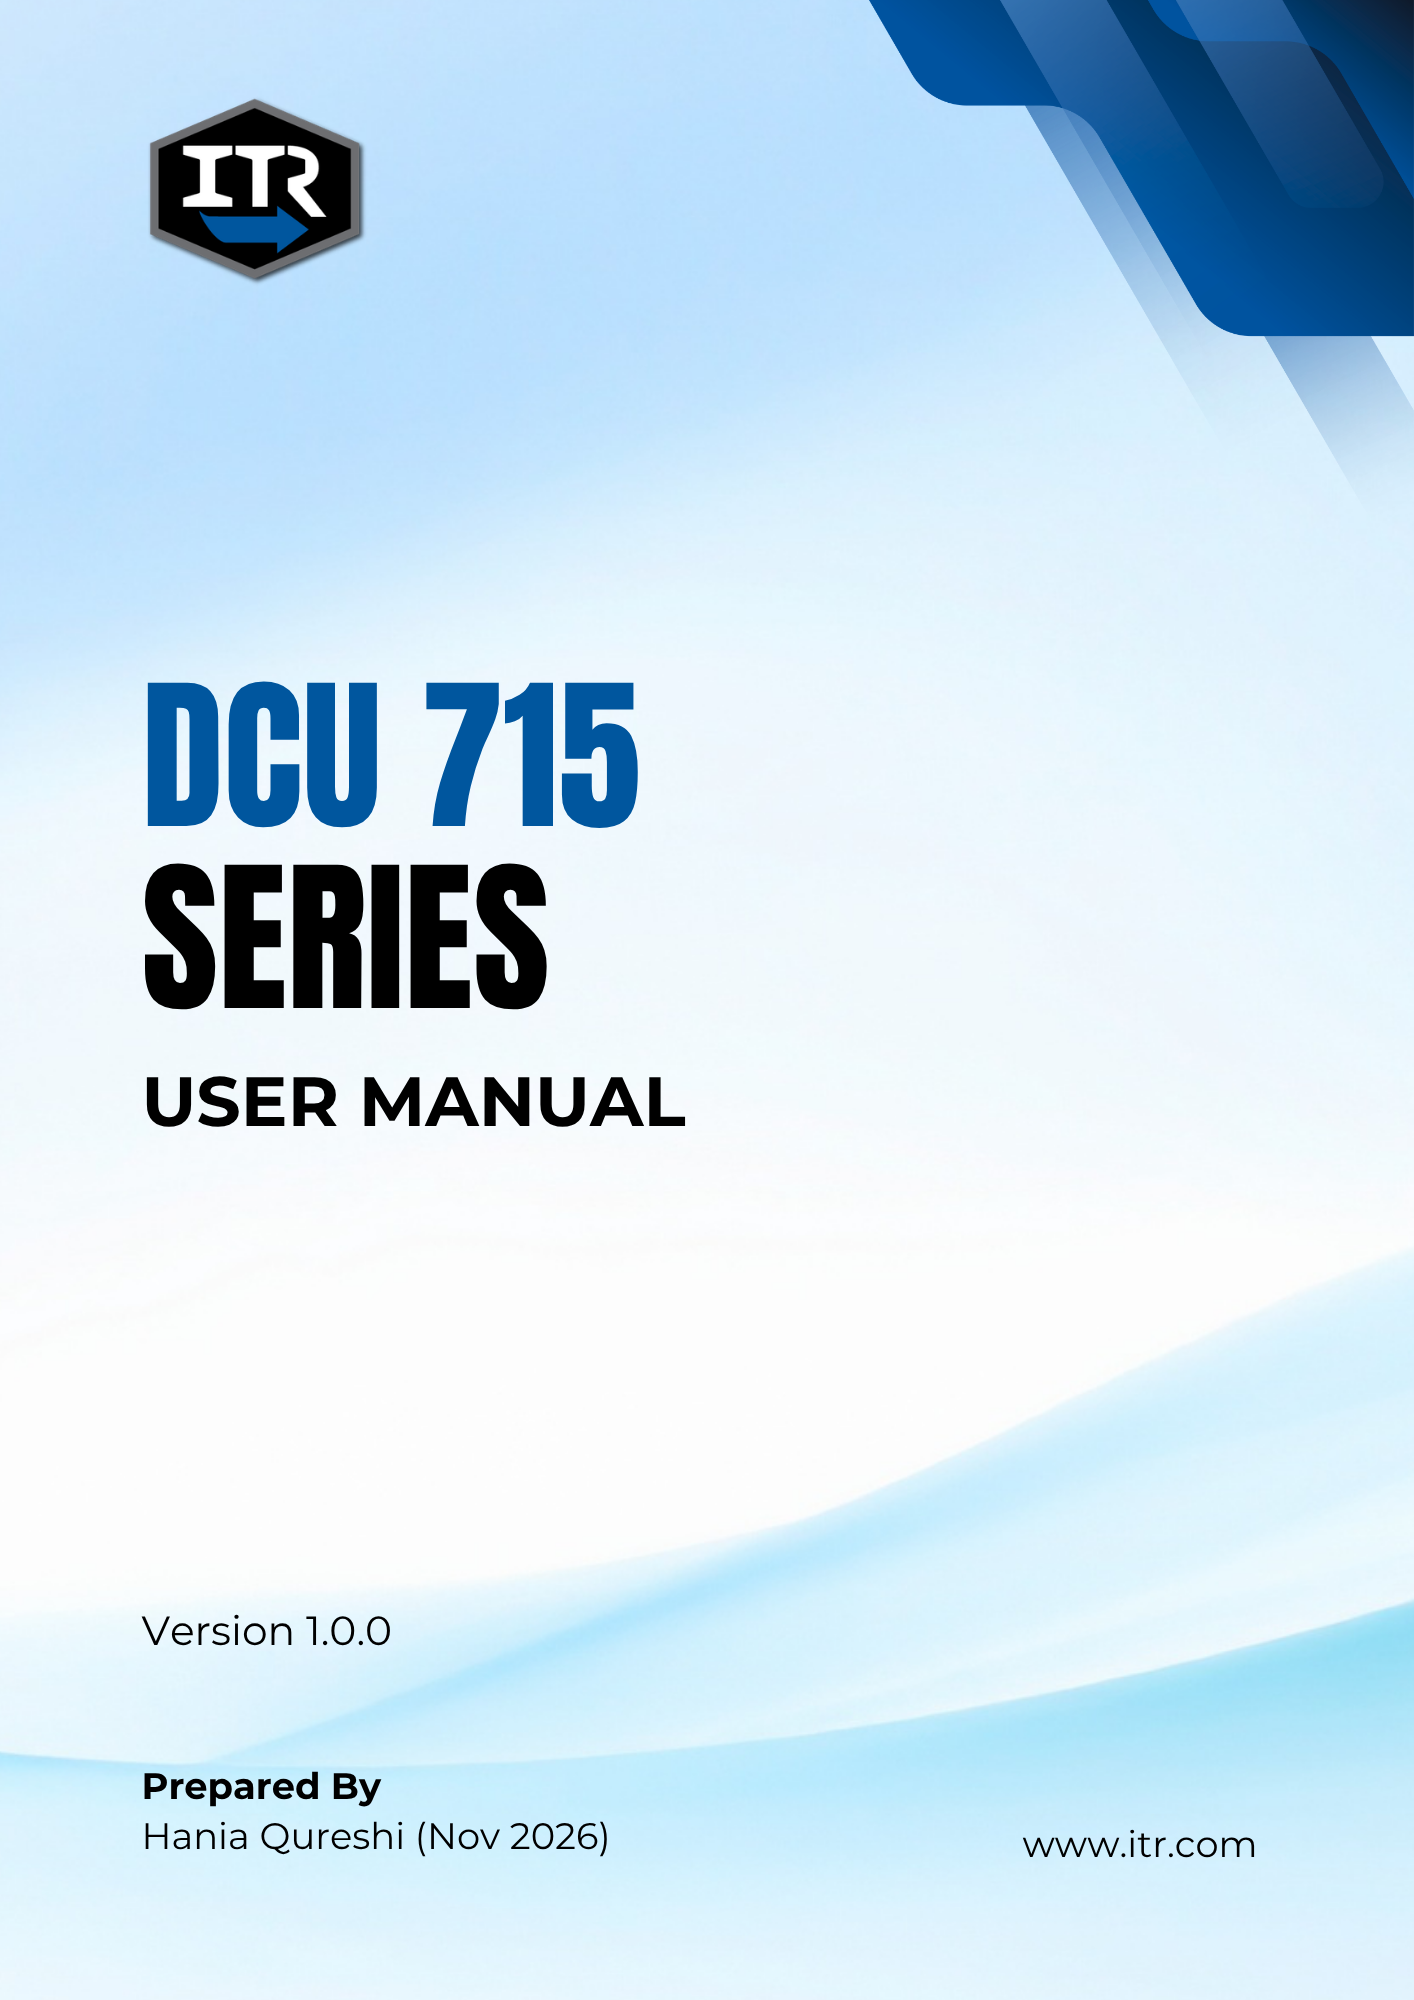
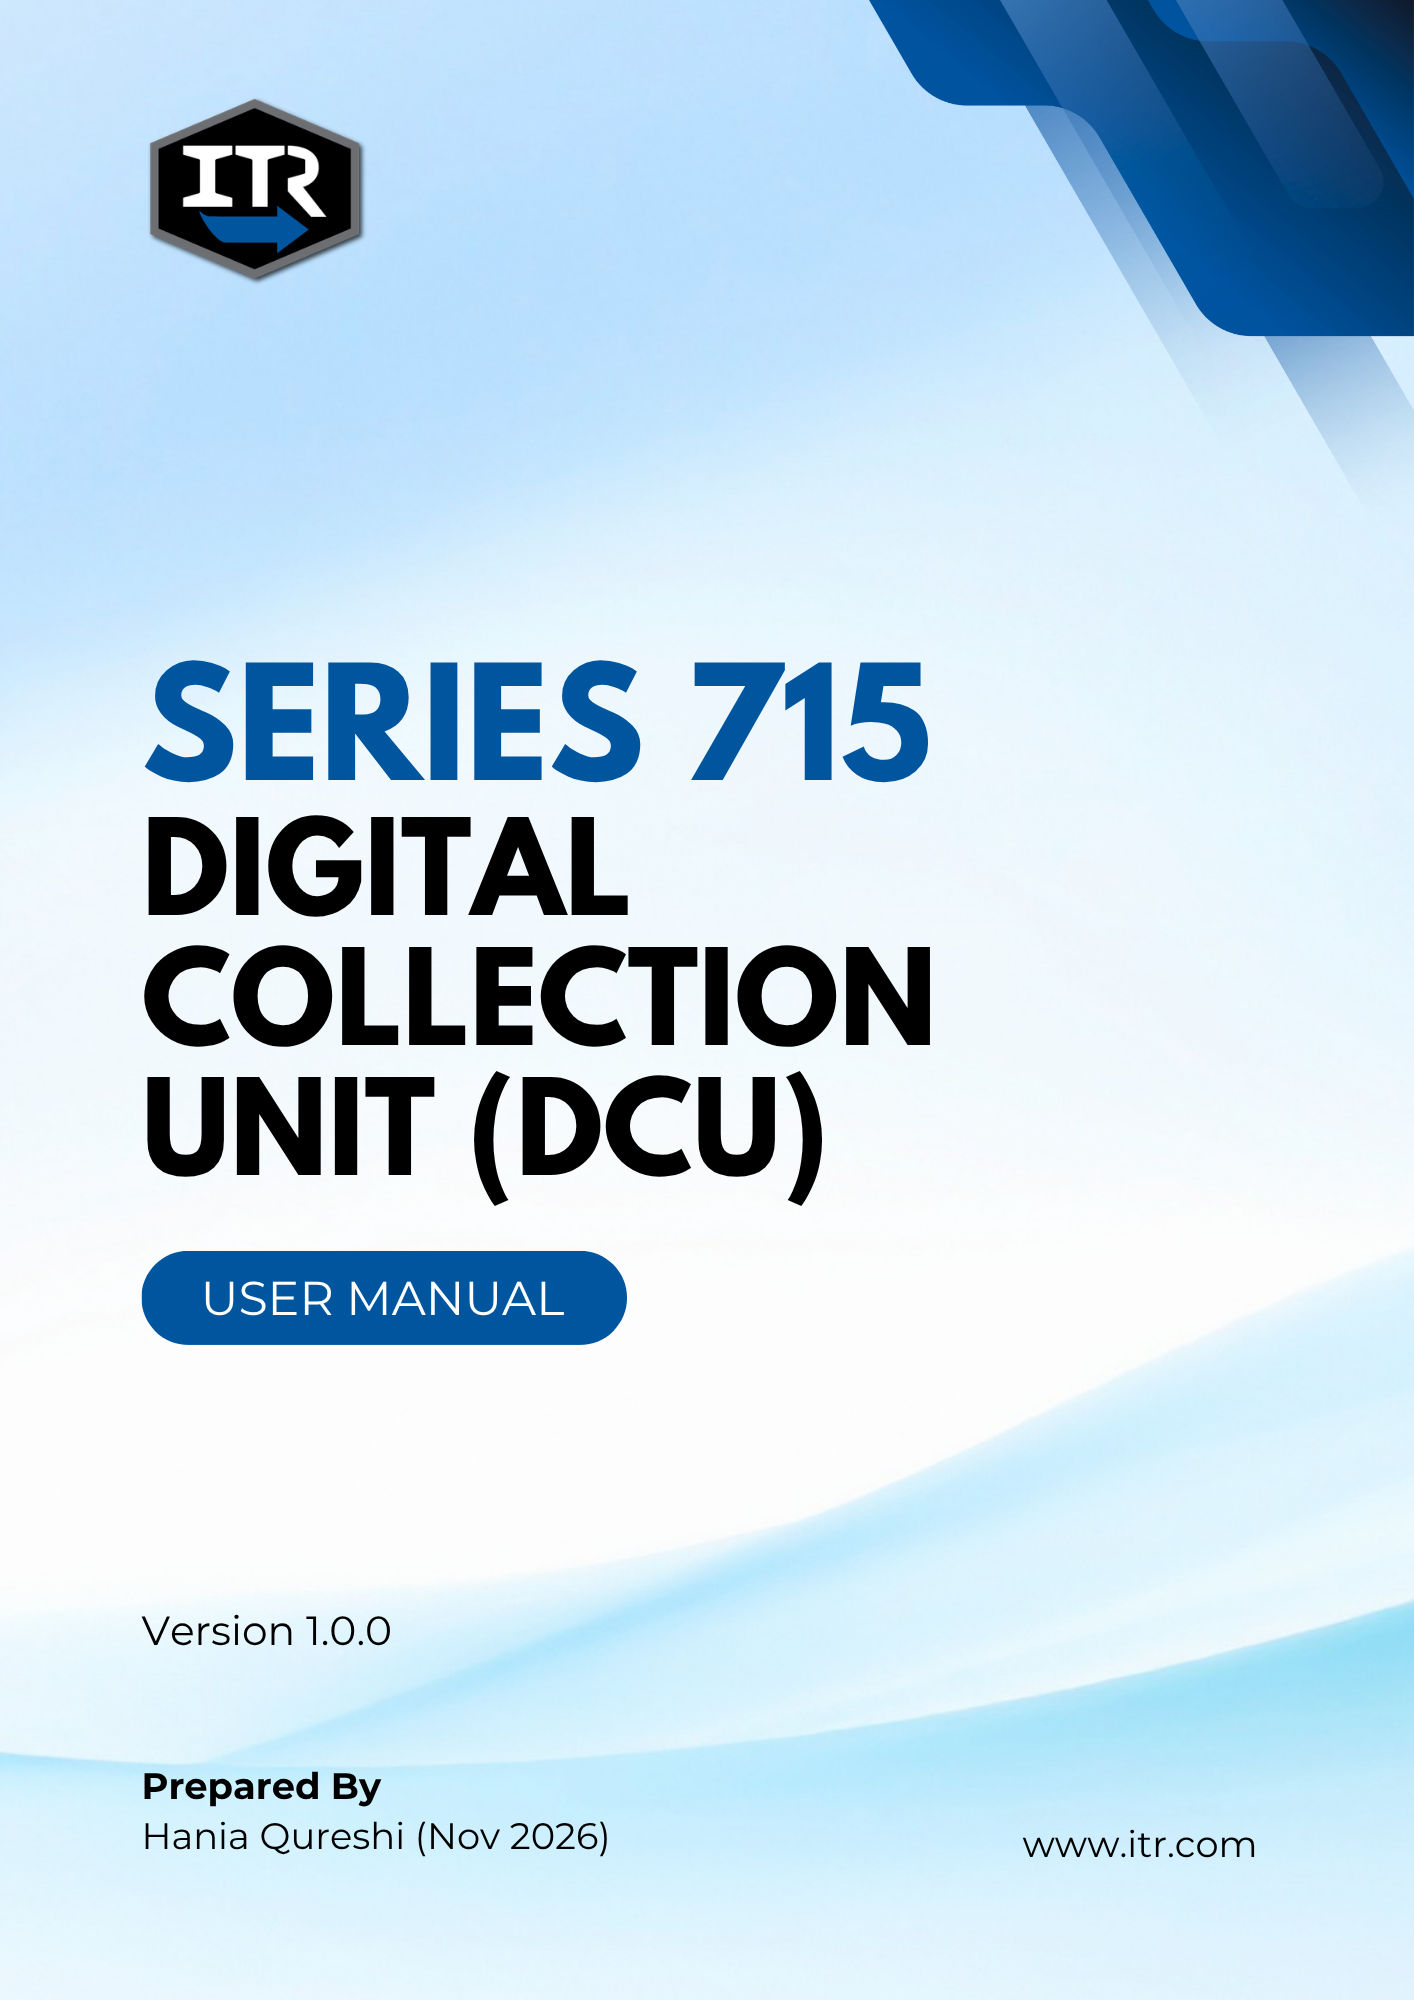
Deploy to GitHub Pages

Changed region(s): [[0.0934, 0.31, 0.6846, 0.682], [0.4979, 0.31, 0.6535, 0.403]]

diff --git a/docusaurus.config.js b/docusaurus.config.js
@@ -25,8 +25,11 @@ const config = {
     v4: true,
   },
 
-  url: 'https://your-docusaurus-site.example.com',
-  baseUrl: '/',
+  url: 'https://haniaqureshi.github.io',
+  baseUrl: '/DCU-715-User-Manual/',
+  organizationName: 'haniaqureshi',
+  projectName: 'DCU-715-User-Manual',
+  trailingSlash: false,
 
   onBrokenLinks: 'throw',
 
